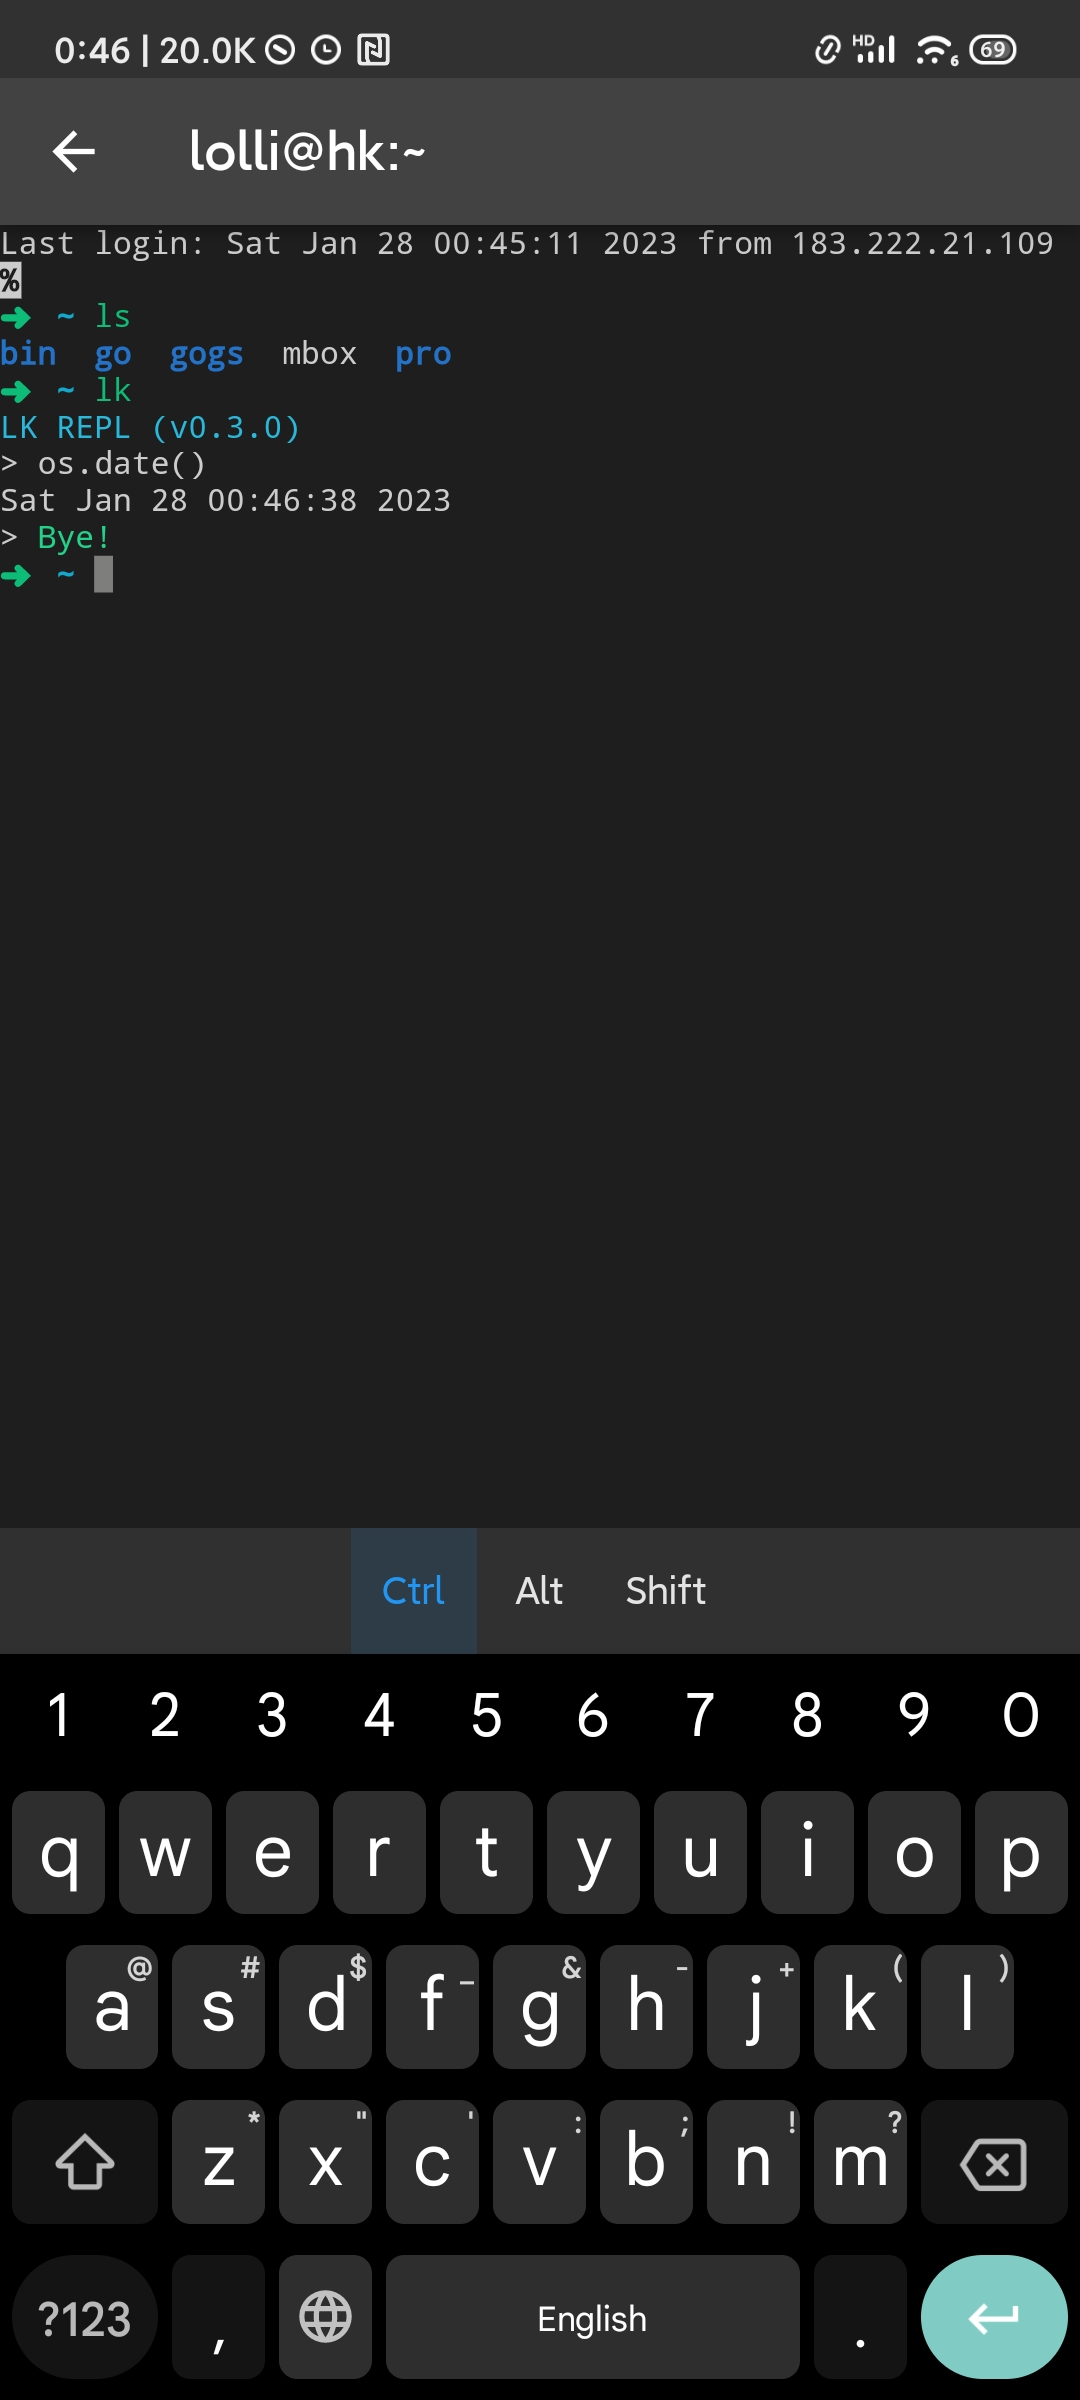
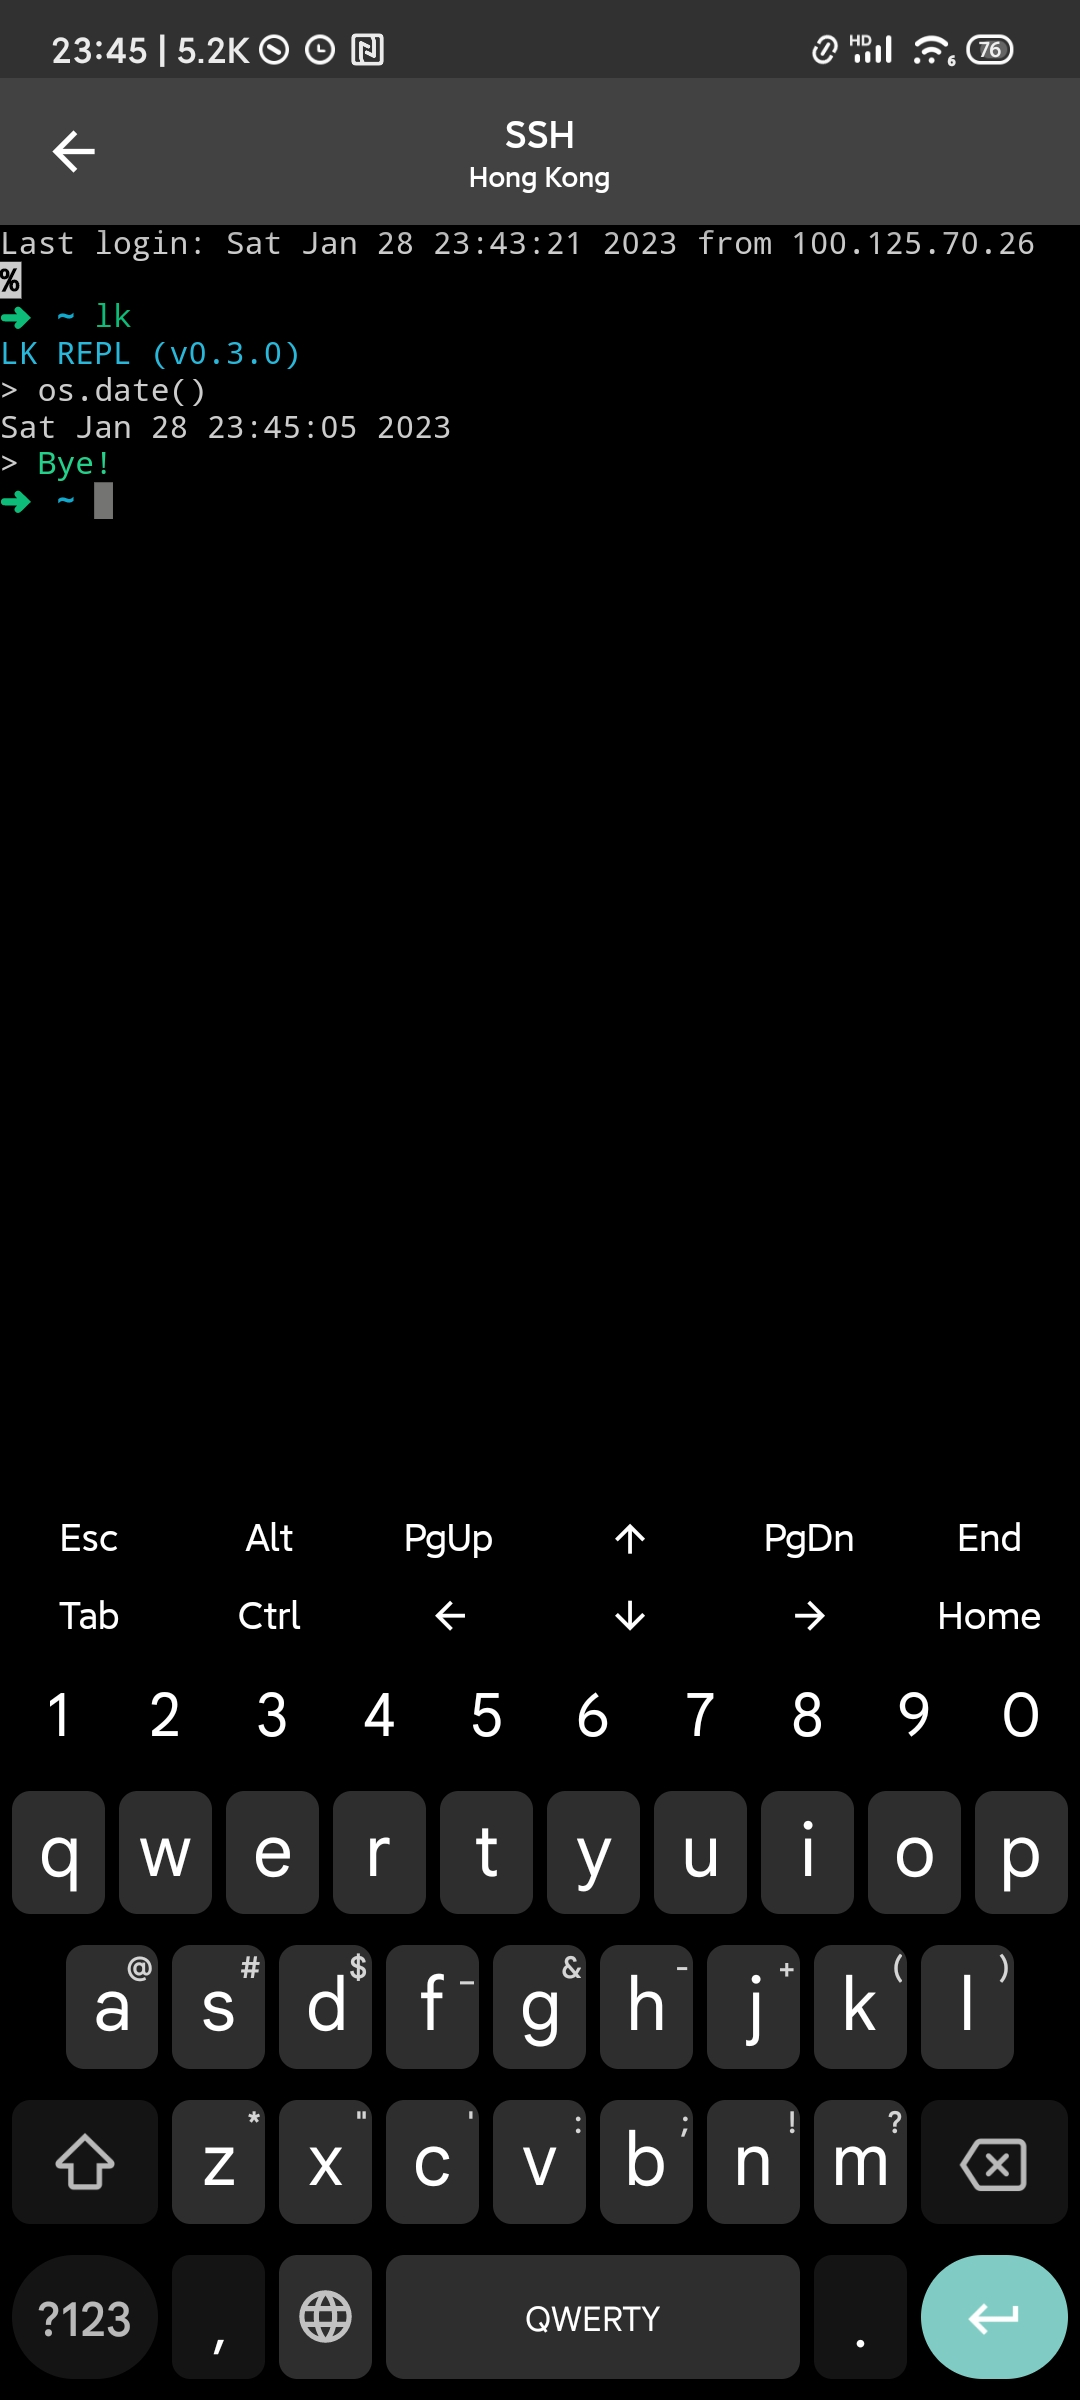
opt. for `ssh`

diff --git a/lib/view/page/pkg.dart b/lib/view/page/pkg.dart
@@ -177,15 +177,6 @@ class _PkgManagePageState extends State<PkgManagePage>
         return ListView(
           padding: const EdgeInsets.all(13),
           children: [
-            Padding(
-              padding: const EdgeInsets.all(17),
-              child: UrlText(
-                text:
-                    '${_s.experimentalFeature}\n${_s.reportBugsOnGithubIssue(issueUrl)}',
-                replace: 'Github Issue',
-                textAlign: TextAlign.center,
-              ),
-            ),
             _buildUpdatePanel(apt)
           ].map((e) => RoundRectCard(e)).toList(),
         );
@@ -203,10 +194,7 @@ class _PkgManagePageState extends State<PkgManagePage>
         subtitle: const Text('>_<', textAlign: TextAlign.center),
       );
     }
-    return Column(
-      crossAxisAlignment: CrossAxisAlignment.start,
-      children: [
-        ExpansionTile(
+    return ExpansionTile(
           title: Text(_s.foundNUpdate(apt.upgradeable!.length)),
           subtitle: Text(
             apt.upgradeable!.map((e) => e.package).join(', '),
@@ -221,32 +209,18 @@ class _PkgManagePageState extends State<PkgManagePage>
                       onPressed: () {
                         apt.upgrade();
                       }),
-                  SizedBox(
-                    height: _media.size.height * 0.73,
-                    child: ListView(
-                      controller: _scrollController,
-                      children: apt.upgradeable!
+                  ...apt.upgradeable!
                           .map((e) => _buildUpdateItem(e, apt))
-                          .toList(),
-                    ),
-                  )
+                          .toList()
                 ]
               : [
-                  SizedBox(
-                    height: _media.size.height * 0.7,
-                    child: ConstrainedBox(
-                      constraints: const BoxConstraints.expand(),
-                      child: SingleChildScrollView(
+                  SingleChildScrollView(
                         padding: const EdgeInsets.all(18),
                         controller: _scrollController,
                         child: Text(apt.upgradeLog!),
-                      ),
-                    ),
-                  )
+                      )
                 ],
-        )
-      ],
-    );
+        );
   }
 
   Widget _buildUpdateItem(UpgradePkgInfo info, PkgProvider apt) {

diff --git a/lib/view/page/ssh.dart b/lib/view/page/ssh.dart
@@ -1,6 +1,7 @@
 import 'dart:convert';
 
 import 'package:dartssh2/dartssh2.dart';
+import 'package:flutter/foundation.dart';
 import 'package:flutter/material.dart';
 import 'package:flutter/services.dart';
 import 'package:toolbox/data/store/setting.dart';
@@ -11,6 +12,7 @@ import '../../core/utils.dart';
 import '../../data/model/server/server_private_info.dart';
 import '../../data/provider/server.dart';
 import '../../data/res/terminal_theme.dart';
+import '../../data/store/private_key.dart';
 import '../../locator.dart';
 
 class SSHPage extends StatefulWidget {
@@ -23,7 +25,7 @@ class SSHPage extends StatefulWidget {
 
 class _SSHPageState extends State<SSHPage> {
   late final terminal = Terminal(inputHandler: keyboard);
-  late final SSHSession session;
+  late final SSHClient client;
   final keyboard = VirtualKeyboard(defaultInputHandler);
   late double _screenWidth;
 
@@ -44,23 +46,14 @@ class _SSHPageState extends State<SSHPage> {
 
   @override
   void dispose() {
-    session.close();
+    client.close();
     super.dispose();
   }
 
   Future<void> initTerminal() async {
     terminal.write('Connecting...\r\n');
 
-    final client = locator<ServerProvider>()
-        .servers
-        .where((e) => e.spi.id == widget.spi.id)
-        .first
-        .client;
-    if (client == null) {
-      terminal.write('Failed to connect\r\n');
-      return;
-    }
-
+    client = await genClient(widget.spi);
     terminal.write('Connected\r\n');
 
     final wxh = locator<SettingStore>().sshTermSize.fetch()!;
@@ -69,7 +62,7 @@ class _SSHPageState extends State<SSHPage> {
     final h = int.parse(split.last);
     terminal.resize(w, h);
 
-    session = await client.shell(
+    final session = await client.shell(
       pty: SSHPtyConfig(
         width: terminal.viewWidth,
         height: terminal.viewHeight,
@@ -189,6 +182,23 @@ class _SSHPageState extends State<SSHPage> {
       ),
     );
   }
+}
+
+Future<SSHClient> genClient(ServerPrivateInfo spi) async {
+  final socket = await SSHSocket.connect(spi.ip, spi.port);
+  if (spi.pubKeyId == null) {
+    return SSHClient(
+      socket,
+      username: spi.user,
+      onPasswordRequest: () => spi.pwd,
+    );
+  }
+  final key = locator<PrivateKeyStore>().get(spi.pubKeyId!);
+  return SSHClient(
+    socket,
+    username: spi.user,
+    identities: await compute(loadIndentity, key.privateKey),
+  );
 }
 
 class VirtualKey {

diff --git a/lib/data/res/build_data.dart b/lib/data/res/build_data.dart
@@ -2,9 +2,9 @@
 
 class BuildData {
   static const String name = "ServerBox";
-  static const int build = 191;
+  static const int build = 193;
   static const String engine =
       "Flutter 3.7.0 • channel stable • https://github.com/flutter/flutter.git\nFramework • revision b06b8b2710 (5 days ago) • 2023-01-23 16:55:55 -0800\nEngine • revision b24591ed32\nTools • Dart 2.19.0 • DevTools 2.20.1\n";
-  static const String buildAt = "2023-01-28 22:51:04.087758";
-  static const int modifications = 3;
+  static const String buildAt = "2023-01-28 23:51:19.423469";
+  static const int modifications = 2;
 }

diff --git a/README.md b/README.md
@@ -34,10 +34,13 @@ Especially thanks to <a href="https://github.com/TerminalStudio/dartssh2">dartss
 	    <img width="200px" src="screenshots/server.jpg">
     </td>
     <td>
-	    <img width="200px" src="screenshots/server_detail.png">
+	    <img width="200px" src="screenshots/detail.jpg">
     </td>
     <td>
 	    <img width="200px" src="screenshots/ssh.jpg">
+    </td>
+    <td>
+	    <img width="200px" src="screenshots/apt.png">
     </td>
   </tr>
 </table>
@@ -51,6 +54,9 @@ Especially thanks to <a href="https://github.com/TerminalStudio/dartssh2">dartss
     </td>
     <td>
 	    <img width="200px" src="screenshots/docker.jpg">
+    </td>
+    <td>
+	    <img width="200px" src="screenshots/convert.png">
     </td>
   </tr>
 </table>
